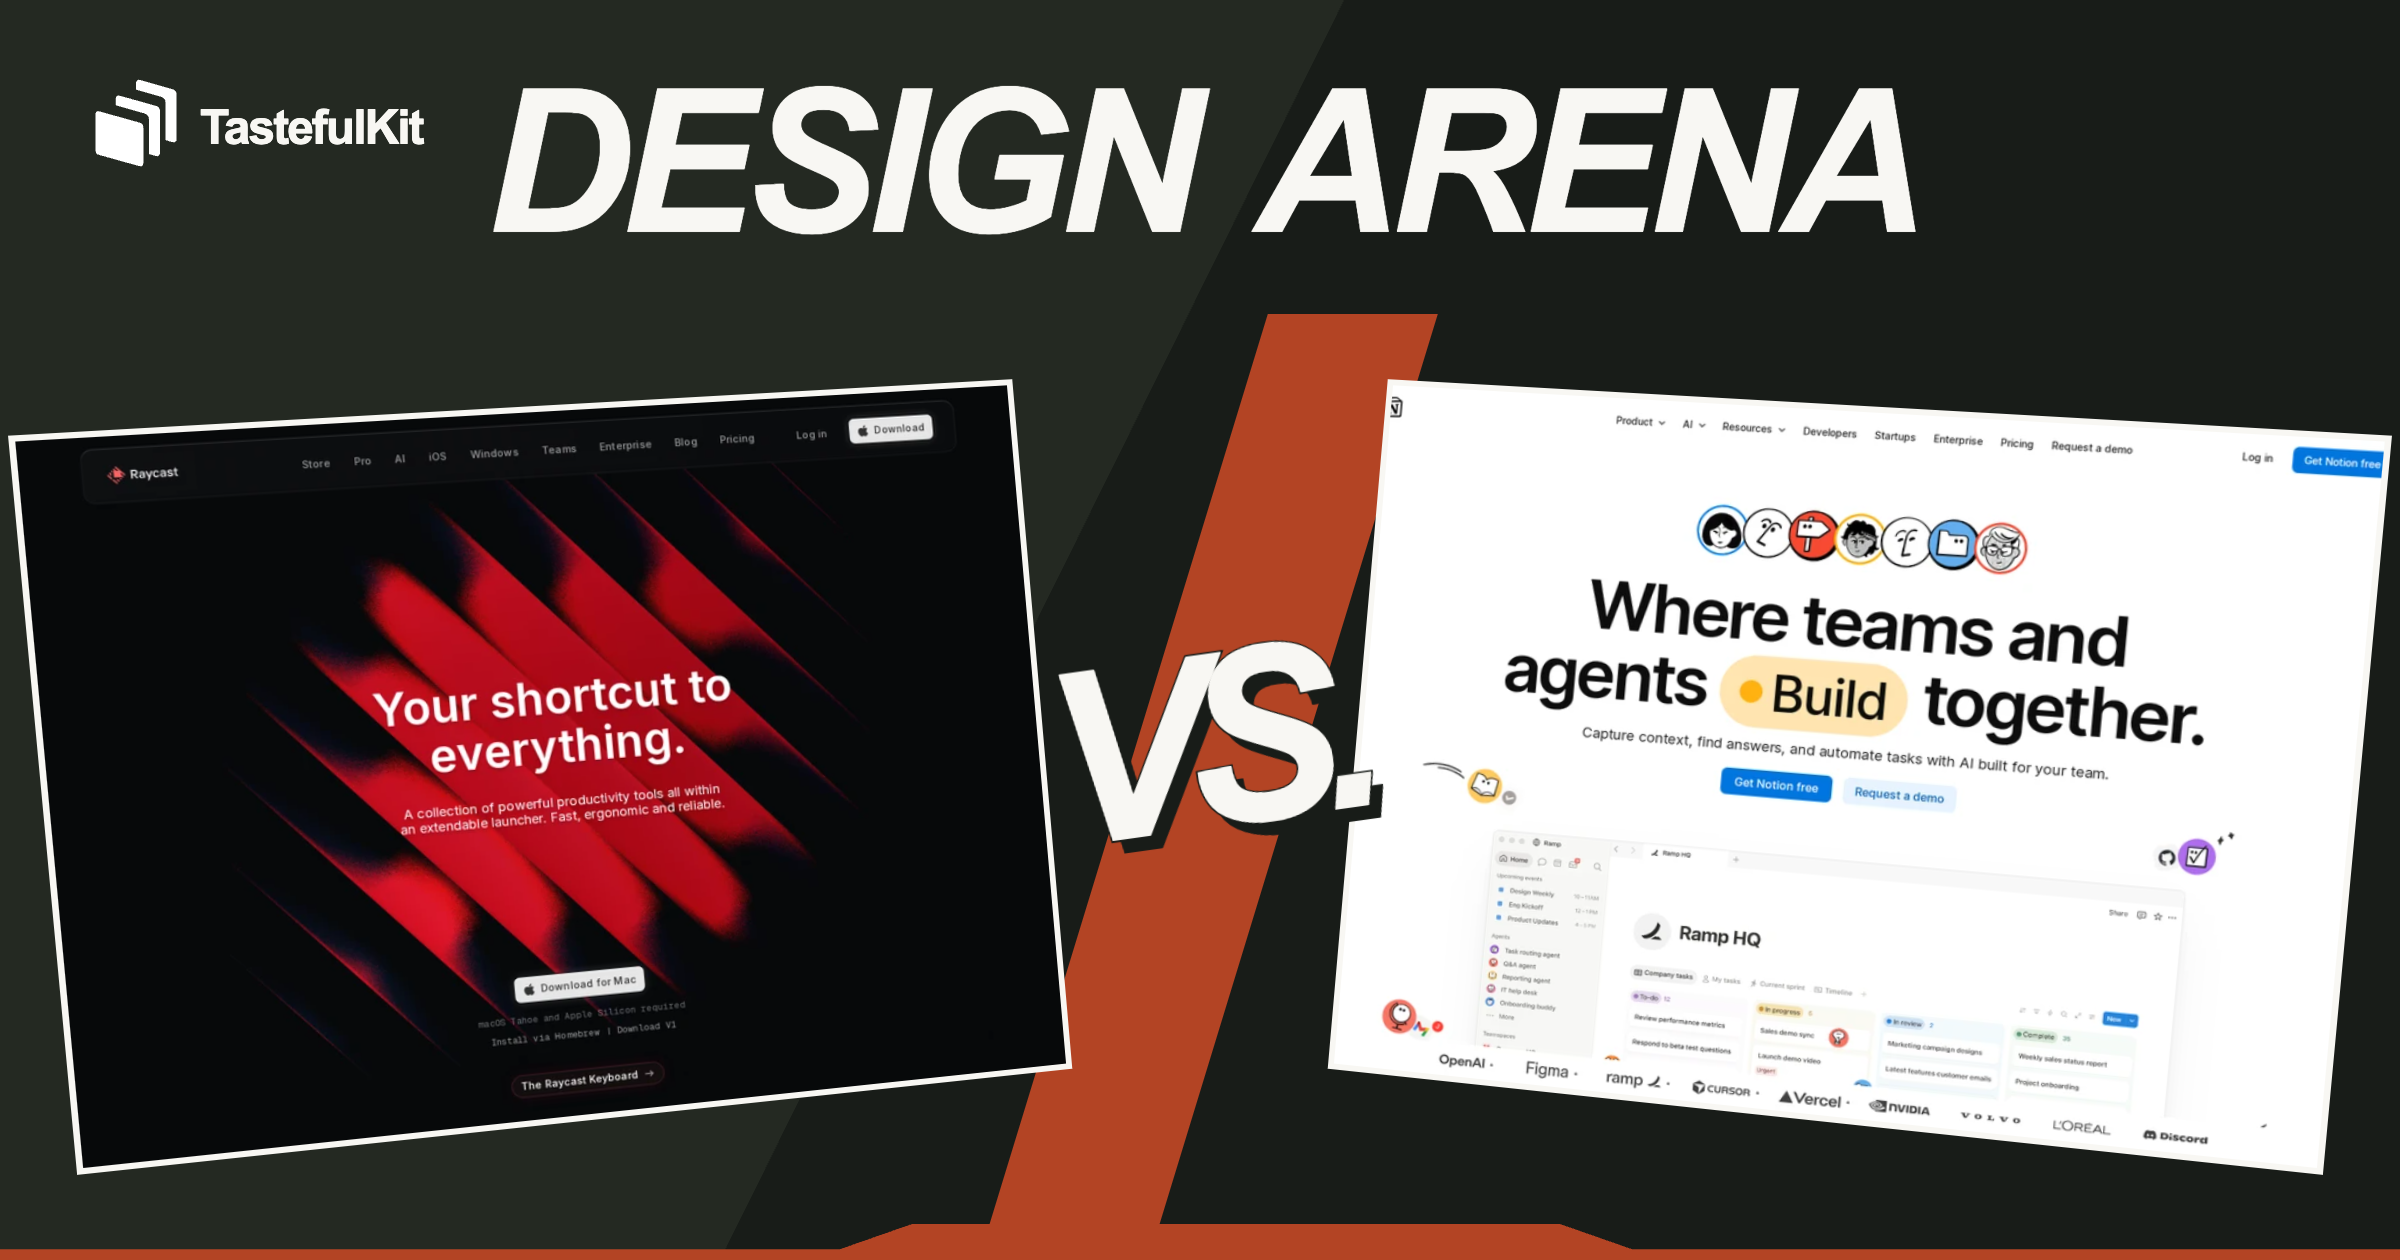
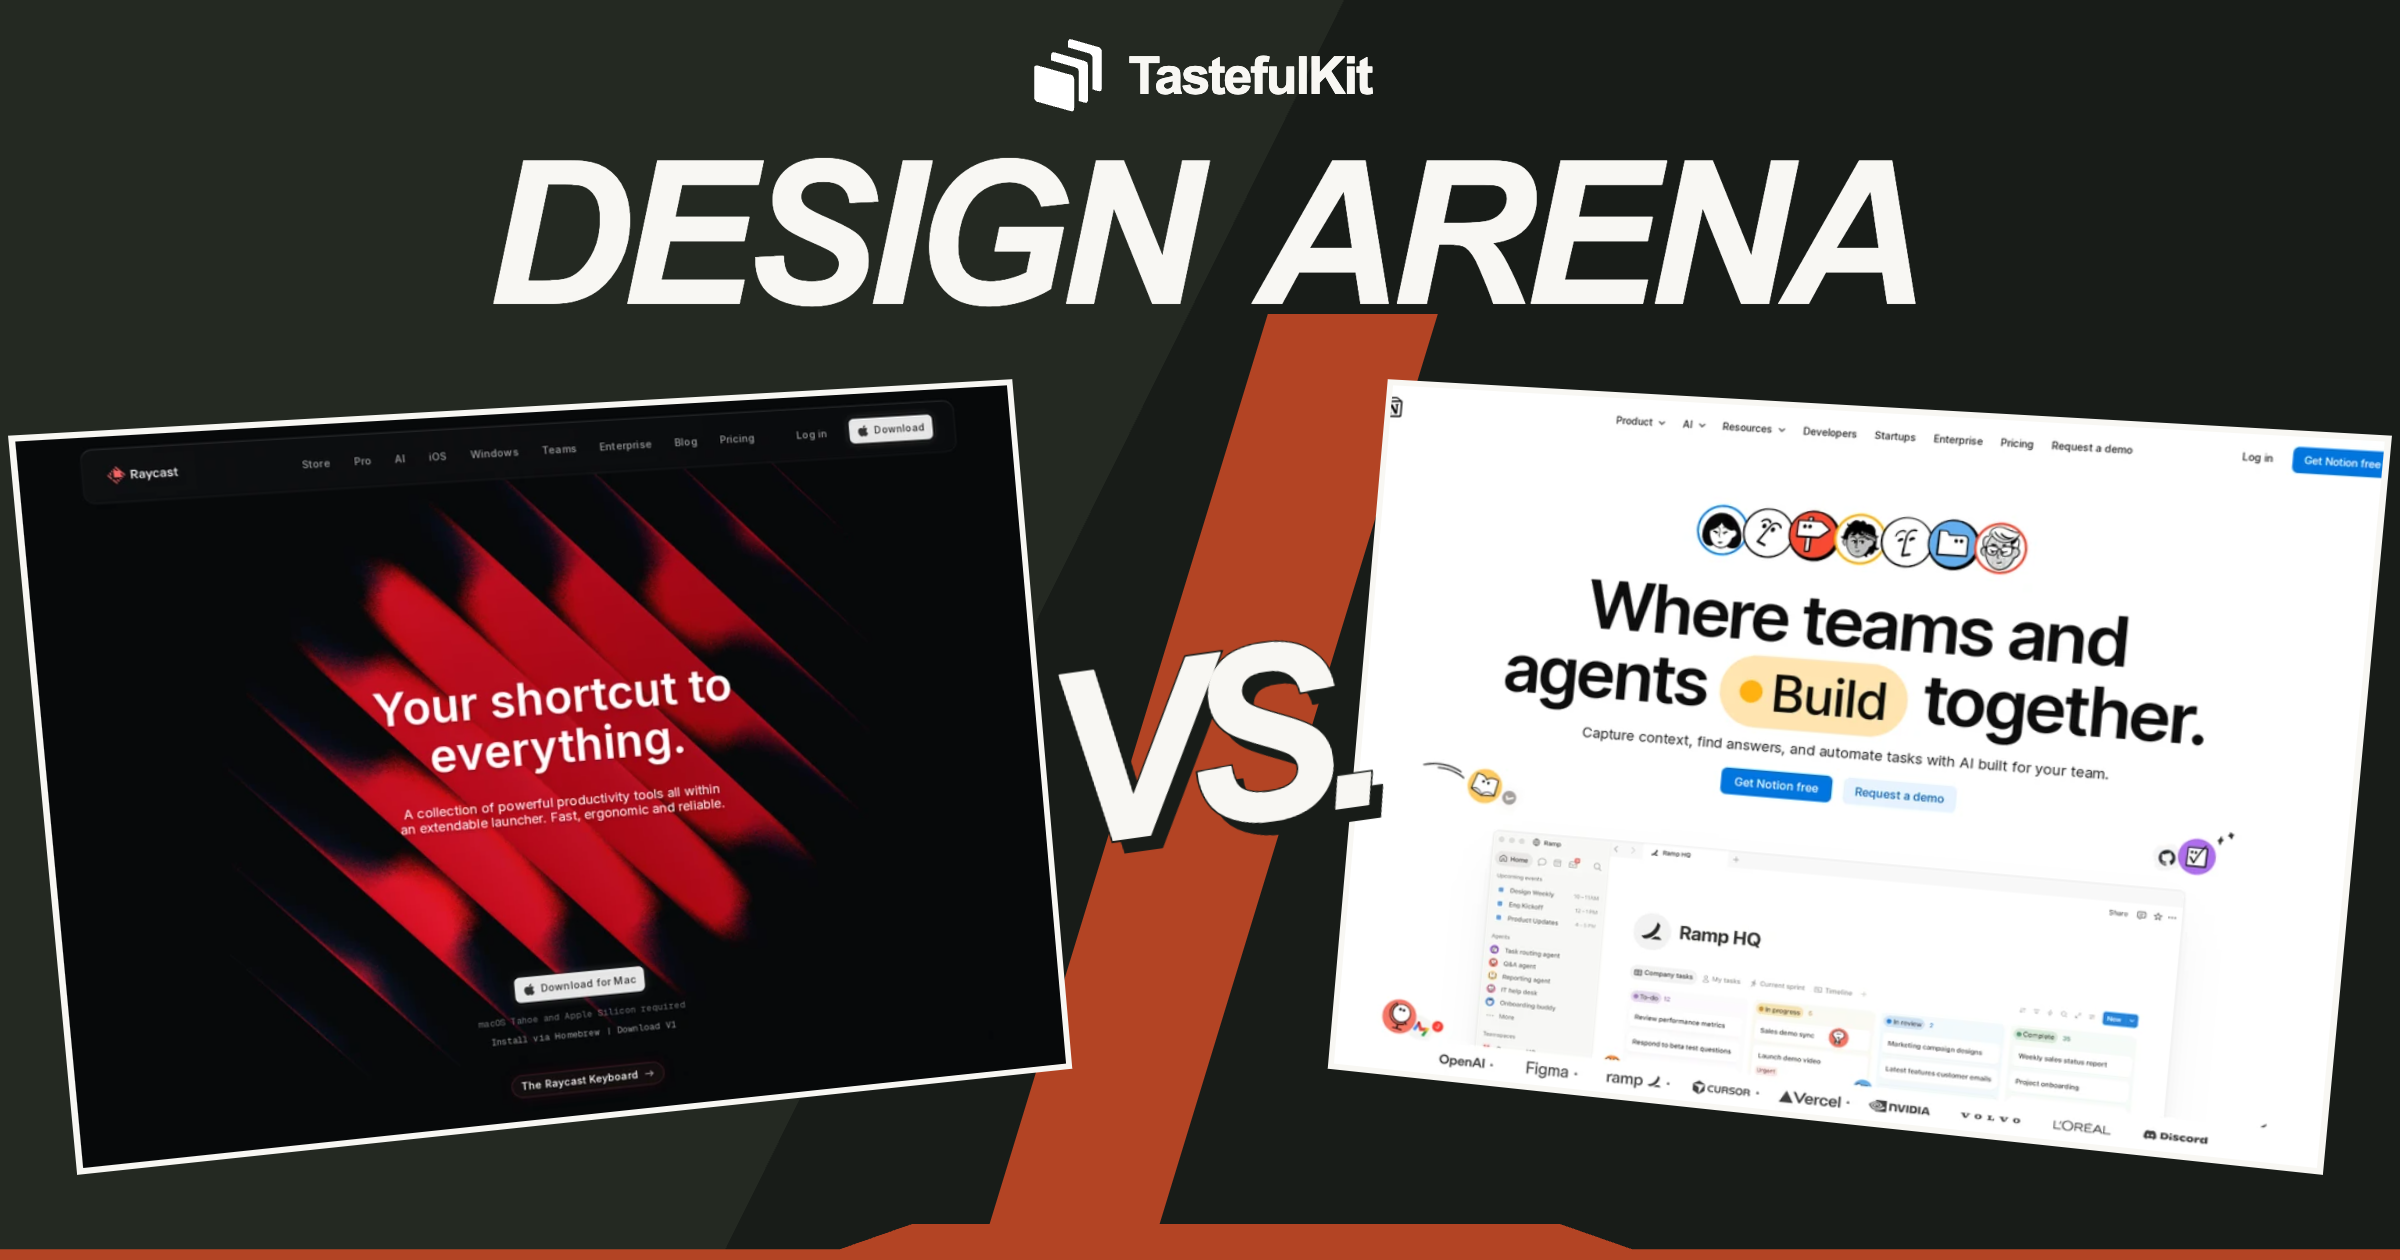
fix: center Arena social preview branding

Changed region(s): [[0.0312, 0.031, 0.8125, 0.2476]]

diff --git a/frontend/src/brand/arena-social-preview.html b/frontend/src/brand/arena-social-preview.html
@@ -9,9 +9,10 @@ html, body { width: 1200px; height: 630px; overflow: hidden; }
 body { position: relative; isolation: isolate; background: #181c18; color: #f8f7f3; font-family: Arial, Helvetica, sans-serif; }
 .backdrop { position: absolute; inset: 0; z-index: -2; background: #242922; clip-path: polygon(0 0, 56% 0, 30% 100%, 0 100%); }
 .slash { position: absolute; top: 157px; left: 559px; width: 85px; height: 490px; background: #b34424; transform: skew(-17deg); z-index: -1; }
-header { position: absolute; top: 34px; left: 44px; right: 44px; display: flex; align-items: center; justify-content: center; }
-.logo { position: absolute; left: 0; top: 4px; width: 48px; height: 48px; filter: brightness(0) invert(1); }
-.wordmark { position: absolute; left: 56px; top: 18px; font: 700 24px/1 Arial, Helvetica, sans-serif; letter-spacing: -1px; }
+header { position: absolute; top: 18px; left: 44px; right: 44px; display: flex; flex-direction: column; align-items: center; gap: 12px; }
+.brand { display: flex; align-items: center; gap: 10px; }
+.logo { width: 40px; height: 40px; filter: brightness(0) invert(1); }
+.wordmark { font: 700 26px/1 Arial, Helvetica, sans-serif; letter-spacing: -1px; }
 h1 { font: italic 900 100px/.95 Arial, Helvetica, sans-serif; letter-spacing: -5px; word-spacing: 12px; text-transform: uppercase; }
 .stage { position: absolute; inset: 182px 0 0; perspective: 1200px; }
 .fighter { position: absolute; width: 486px; height: 358px; overflow: hidden; background: #fff; border: 3px solid #f8f7f3; }
@@ -26,10 +27,12 @@ h1 { font: italic 900 100px/.95 Arial, Helvetica, sans-serif; letter-spacing: -5
         <div class="backdrop"></div>
         <div class="slash"></div>
         <header>
-            <img class="logo"
[1 lines of base64/hex data omitted]
-                 alt="TastefulKit">
-            <span class="wordmark">TastefulKit</span>
+            <div class="brand">
+                <img class="logo"
[1 lines of base64/hex data omitted]
+                     alt="TastefulKit">
+                <span class="wordmark">TastefulKit</span>
+            </div>
             <h1>Design Arena</h1>
         </header>
         <div class="stage">

diff --git a/frontend/src/brand/README.md b/frontend/src/brand/README.md
@@ -2,7 +2,7 @@
 
 `arena-social-preview.html` is the editable, self-contained source for
 `frontend/static/brand/arena-social-preview.png`. Its 1200 × 630 canvas is captured
-at 2× (2400 × 1260 pixels). It uses the existing reference-stack mark and corner wordmark, Arial,
+at 2× (2400 × 1260 pixels). It uses the existing reference-stack mark and centered wordmark, Arial,
 bold italic matchup typography, ink, warm white, and terracotta. The two real
 website previews face off around a large VS. in a fighting-game-inspired layout.
 
